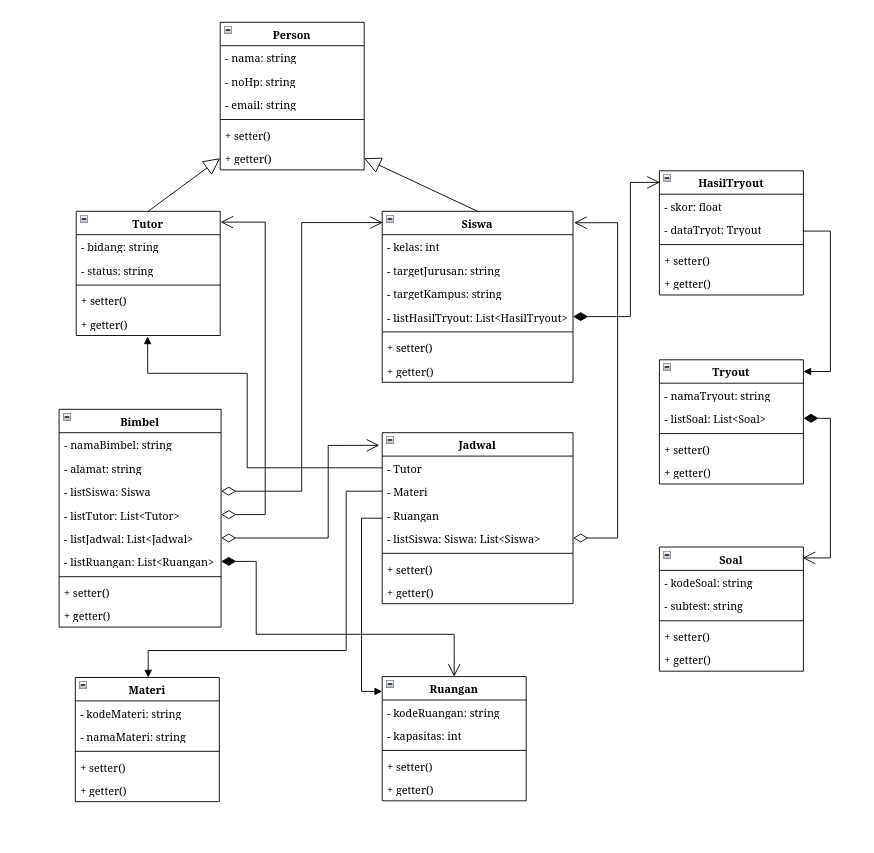
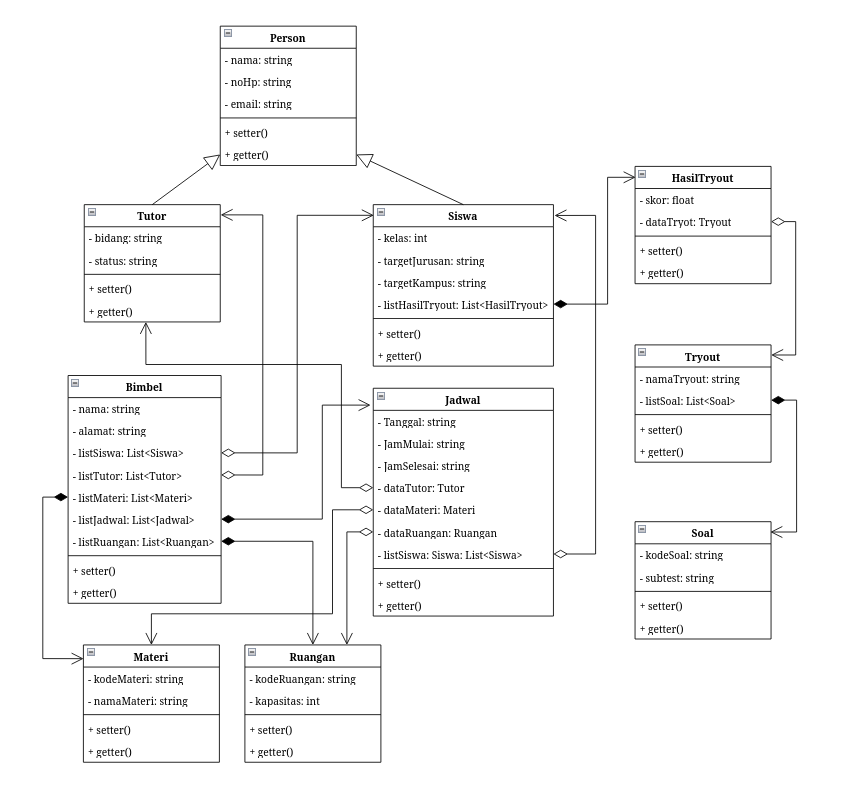
fix: relasi antar class

diff --git a/CPP/Program/Jadwal.cpp b/CPP/Program/Jadwal.cpp
@@ -3,42 +3,67 @@ using namespace std;
 class Jadwal {
     private:
         // atribut
-        Tutor dataTutor;
-        Materi dataMateri;
-        Ruangan dataRuangan;
-        vector<Siswa> listSiswa;
+        string tanggal;
+        string jamMulai;
+        string jamSelesai;
+        Tutor* dataTutor;
+        Materi* dataMateri;
+        Ruangan* dataRuangan;
+        vector<Siswa*> listSiswa;
 
     public:
         // empty construcotr
         Jadwal() {
-            dataTutor = Tutor();
-            dataMateri = Materi();
-            dataRuangan = Ruangan();
+            tanggal = "";
+            jamMulai = "";
+            jamSelesai = "";
+            dataTutor = nullptr;
+            dataMateri = nullptr;
+            dataRuangan = nullptr;
+            listSiswa = {nullptr};
         }
 
         // constructor with parameter
-        Jadwal(Tutor dataTutor, Materi dataMateri, Ruangan dataRuangan, vector<Siswa> listSiswa) {
-            this->dataTutor = dataTutor;
-            this->dataMateri = dataMateri;
-            this->dataRuangan = dataRuangan;
+        Jadwal(
+            string tanggal, string jamMulai, string jamSelesai, Tutor &dataTutor, 
+            Materi& dataMateri, Ruangan& dataRuangan, const vector<Siswa*>& listSiswa
+        ) {
+            this->tanggal = tanggal;
+            this->jamMulai = jamMulai;
+            this->jamSelesai = jamSelesai;
+            this->dataTutor = &dataTutor;
+            this->dataMateri = &dataMateri;
+            this->dataRuangan = &dataRuangan;
             this->listSiswa = listSiswa;
         }
 
+        // setter and getter for tanggal
+        void setTanggal(string tanggal) {this->tanggal = tanggal;}
+        string getTanggal() {return tanggal;}
+
+        // settre and getter for jamMulai
+        void setJamMulai(string jamMulai) {this->jamMulai = jamMulai;}
+        string getJamMulai() {return jamMulai;}
+
+        // settre and getter for jamSelesai
+        void setJamSelesai(string jamSelesai) {this->jamSelesai = jamSelesai;}
+        string getJamSelesai() {return jamSelesai;}
+
         // setter and getter for dataTutor
-        void setTutor(Tutor dataTutor) {this->dataTutor = dataTutor;}
-        Tutor getTutor() {return dataTutor;}
+        void setTutor(Tutor& dataTutor) {this->dataTutor = &dataTutor;}
+        Tutor* getTutor() {return dataTutor;}
         
         // setter and getter for dataMateri
-        void setMateri(Materi dataMateri) {this->dataMateri = dataMateri;}
-        Materi getMateri() {return dataMateri;}
+        void setMateri(Materi& dataMateri) {this->dataMateri = &dataMateri;}
+        Materi* getMateri() {return dataMateri;}
 
         // setter and getter for dataRuangan
-        void setRuangan(Ruangan dataRuangan) {this->dataRuangan = dataRuangan;}
-        Ruangan getRuangan() {return dataRuangan;}
+        void setRuangan(Ruangan& dataRuangan) {this->dataRuangan = &dataRuangan;}
+        Ruangan* getRuangan() {return dataRuangan;}
         
         // setter and getter for listSiswa
-        void setListSiswa(vector<Siswa> listSiswa) {this->listSiswa = listSiswa;}
-        vector<Siswa> getListSiswa() {return listSiswa;}
+        void setListSiswa(vector<Siswa*>& listSiswa) {this->listSiswa = listSiswa;}
+        vector<Siswa*> getListSiswa() {return listSiswa;}
 
         // destructor
         ~Jadwal() {}

diff --git a/CPP/Program/Bimbel.cpp b/CPP/Program/Bimbel.cpp
@@ -1,0 +1,67 @@
+using namespace std;
+
+class Bimbel {
+    private:
+        // atribut
+        string nama;
+        string alamat;
+        vector<Siswa*> listSiswa;
+        vector<Tutor*> listTutor;
+        vector<Materi> listMateri;
+        vector<Jadwal> listJadwal;
+        vector<Ruangan> listRuangan;
+
+    public:
+        // empty constructor
+        Bimbel() {
+            nama = "";
+            alamat = "";
+            listSiswa = {};
+            listTutor = {};
+            listMateri = {};
+            listJadwal = {};
+            listRuangan = {};
+        }
+
+        // constructor with parameter
+        Bimbel(string& nama, string& alamat) {
+            this->nama = nama;
+            this->alamat = alamat;
+        }
+
+        // setter and getter for nama
+        void setNama(string nama) {this->nama = nama;}
+        string getNama() {return nama;}
+
+        // setter and getter for alamat
+        void setAlamat(string alamat) {this->alamat = alamat;}
+        string getAlamat() {return alamat;}
+        
+        // setter and getter for listSiswa
+        void addSiswa(Siswa* dataSiswa) {listSiswa.push_back(dataSiswa);}
+        void setListSiswa(const vector<Siswa*>& listSiswa) {this->listSiswa = listSiswa;}
+        vector<Siswa*> getListSiswa() {return listSiswa;}
+        
+        // setter and getter for listTutor
+        void addTutor(Tutor* dataTutor) {listTutor.push_back(dataTutor);}
+        void setListTutor(const vector<Tutor*>& listTutor) {this->listTutor = listTutor;}
+        vector<Tutor*> getListTutor() {return listTutor;}
+
+        // setter and getter for materi
+        void addMateri(Materi dataMateri) {listMateri.push_back(dataMateri);}
+        void setListMateri(const vector<Jadwal>& listMateri) {this->listMateri = listMateri;}
+        vector<Materi> getListMateri() {return listMateri;}
+        
+        // setter and getter for jadwal 
+        void addJadwal(Jadwal dataJadwal) {listJadwal.push_back(dataJadwal);}
+        void setListJadwal(const vector<Jadwal>& listJadwal) {this->listJadwal = listJadwal;}
+        vector<Jadwal> getListJadwal() {return listJadwal;}
+        
+        // setter and getter for ruangan
+        void addRuangan(Jadwal dataRuangan) {listRuangan.push_back(dataRuangan);}
+        void setListRuangan(const vector<Ruangan>& listRuangan) {this->listRuangan = listRuangan;}
+        vector<Ruangan> getListRuangan() {return listRuangan;}
+
+        // destructor
+        ~Bimbel() {}
+};

diff --git a/CPP/Program/Main.cpp b/CPP/Program/Main.cpp
@@ -6,30 +6,27 @@
 #include "Tutor.cpp"
 #include "Siswa.cpp"
 
+#include "Ruangan.cpp"
+#include "Materi.cpp"
+#include "Jadwal.cpp"
+
 using namespace std;
 
 int main() {
-    vector<Soal> latsol(2);
-    latsol[0] = Soal("LT001", "Math");
-    latsol[1] = Soal("LT002", "Science");
+    Tutor a = Tutor("qeya", "087966", "qeya@gmail", "Math", "Freelance");
+    Materi mat = Materi("M001", "Aljabar");
+    Ruangan kelas = Ruangan("K001", 10);
 
-    Tryout temp1 = Tryout("Tryout 1", latsol);
-    Tryout temp2 = Tryout("Tryout 2", latsol);
+    vector<Siswa> data(2);
+    data[0] = Siswa("Rudi", "076547", "rud@", 10, "IT", "UPI");
+    data[1] = Siswa("Rahmat", "576547", "mat@", 12, "Teknik", "ITB");
 
-    vector<HasilTryout> hasil(2);
-    hasil[0] = HasilTryout(800, temp1);
-    hasil[1] = HasilTryout(788, temp2);
-    Siswa data = Siswa("Rian", "09689699", "rian@", 12, "UI", "Ilkom", hasil);
+    Jadwal senin = Jadwal("10-10-2026", "07:00", "10:00", a, mat, kelas, {&data[0], &data[1]});
 
-    cout << data.getNama() << endl;
-    for(HasilTryout i : data.getListHasilTryout()) {
-        Tryout x = i.getTryout();
-        cout << x.getNama() << endl;
-
-        for(Soal j: x.getListSoal()) {
-            cout << " - " << j.getKodeSoal() << " : " << j.getSubtest() << endl;
-        }
-    }
+    cout << senin.getTanggal() << endl;
+    cout << senin.getJamMulai() << "-" << senin.getJamSelesai()<< endl;
+    cout << (senin.getTutor())->getNama() << endl;
+    cout << (senin.getMateri())->getNamaMateri() << endl;
 
     return 0;
 }

diff --git a/CPP/Program/Siswa.cpp b/CPP/Program/Siswa.cpp
@@ -13,18 +13,18 @@ class Siswa : public Person{
             kelas = 0;
             targetJurusan = "";
             targetKampus = "";
+            listHasilTryout = {};
         }
 
         // constructor with parameter
         Siswa(
             string nama, string noHp, string email, int kelas,
             string targetKampus, string targetJurusan,
-            vector<HasilTryout> listHasilTryout
+            vector<HasilTryout> listHasilTryout = {}
         ) : Person(nama, noHp, email) {
             this->kelas = kelas;
             this->targetJurusan = targetJurusan;
             this->targetKampus = targetKampus;
-            this->listHasilTryout = listHasilTryout;
         }
 
         // setter and getter for kelas
@@ -42,15 +42,14 @@ class Siswa : public Person{
             this->targetKampus = targetKampus;
         }
         string getTargetKampus() {return targetKampus;}
-
-        // add list for listHasilTryout
-        void addHasil(HasilTryout hasil) {
-            listHasilTryout.push_back(hasil);
-        }
-
+        
         // setter and getter for listHasilTryout
-        void setListHasilTryout(vector<HasilTryout> data) {listHasilTryout = data;}
-        vector<HasilTryout> getListHasilTryout() {return listHasilTryout;}
+        void setHasil(float skor, Tryout& dataTryout) {
+            listHasilTryout.emplace_back(skor, &dataTryout);
+        }
+        const vector<HasilTryout>& getListHasilTryout() {
+            return listHasilTryout;
+        }
 
         ~Siswa() {}
 };

diff --git a/CPP/Program/HasilTryout.cpp b/CPP/Program/HasilTryout.cpp
@@ -4,17 +4,17 @@ class HasilTryout{
     private:
         // atribut
         float skor;
-        Tryout dataTryout;
+        Tryout* dataTryout;
 
     public:
         // empty konstructor
         HasilTryout() {
             skor = 0.00;
-            dataTryout = Tryout();
+            dataTryout = nullptr;
         }
 
         // constructor with parameter
-        HasilTryout(float skor, Tryout dataTryout) {
+        HasilTryout(float skor, Tryout* dataTryout) {
             this->skor = skor;
             this->dataTryout = dataTryout;
         }
@@ -24,8 +24,8 @@ class HasilTryout{
         float getSkor() {return skor;}
 
         // setter and getter for Tryout dataTryout
-        void setTryout(Tryout dataTryout) {this->dataTryout = dataTryout;}
-        Tryout getTryout() {return dataTryout;}
+        void setTryout(Tryout &dataTryout) {this->dataTryout = &dataTryout;}
+        Tryout* getTryout() {return dataTryout;}
 
         // destructor
         ~HasilTryout() {}

diff --git a/CPP/Program/Tryout.cpp b/CPP/Program/Tryout.cpp
@@ -10,12 +10,12 @@ class Tryout{
         // empty constructor
         Tryout() {
             namaTryout = "";
+            listSoal = {};
         }
 
         // constructor with parameter
-        Tryout(string namaTryout, vector<Soal> listSoal) {
+        Tryout(string namaTryout, vector<Soal> listSoal = {}) {
             this->namaTryout = namaTryout;
-            this->listSoal = listSoal;
         }
 
         // setter and getter for namaTryout
@@ -23,8 +23,12 @@ class Tryout{
         string getNamaTryout() {return namaTryout;}
 
         // setter and getter for listSoal
-        void setListSoal(vector<Soal> listSoal) {this->listSoal = listSoal;}
-        vector<Soal> getListSoal() {return listSoal;}
+        void setSoal(string kodeSoal, string subtest) {
+            listSoal.emplace_back(kodeSoal, subtest);
+        }
+        const vector<Soal>& getListSoal() {
+            return listSoal;
+        }
 
         // destructor
         ~Tryout() {}
